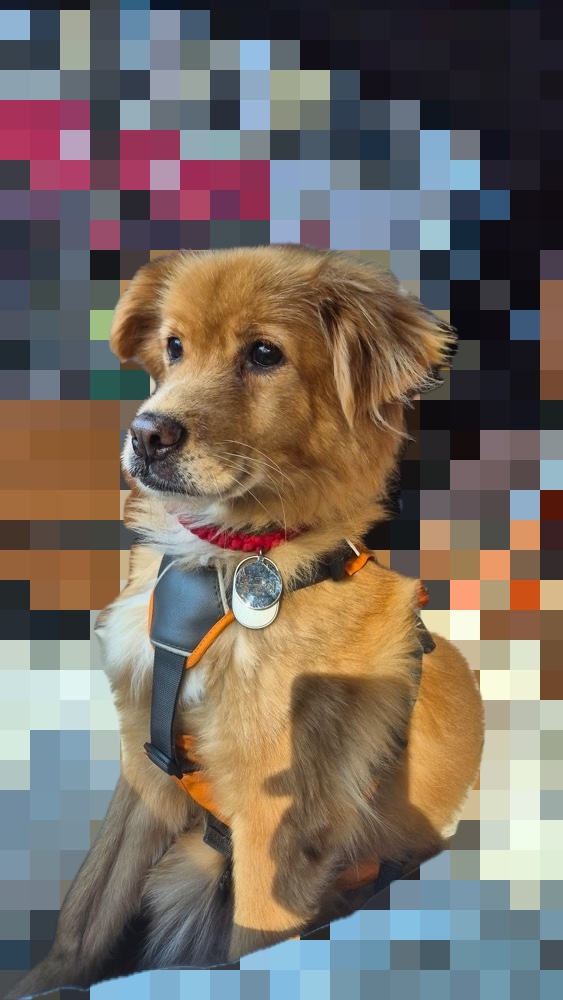
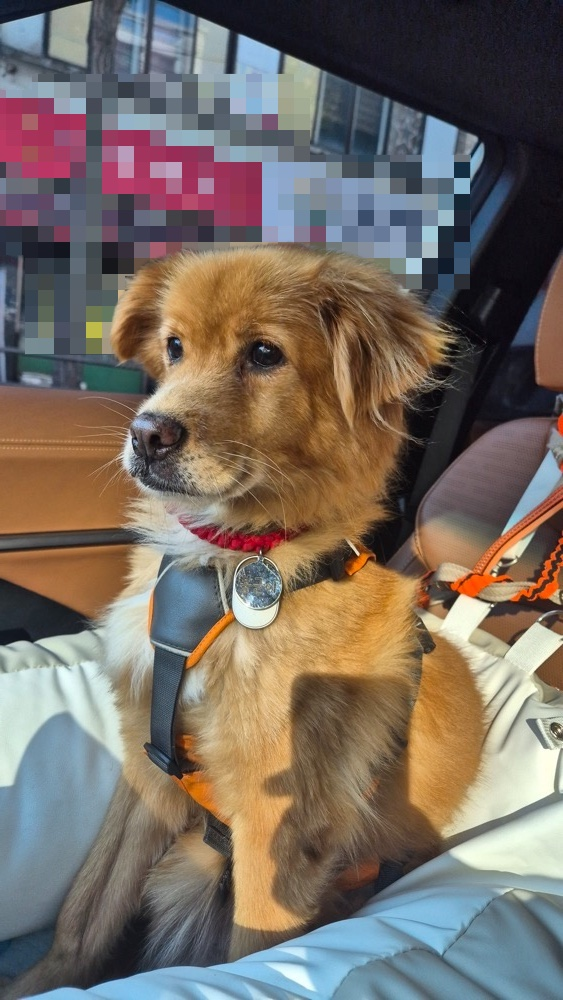
차 안 사진 2장: 배경 전체 대신 간판만 모자이크

diff --git a/index.html b/index.html
@@ -492,7 +492,7 @@ const TYPES = {
   w:{name:"산책 메이트형", img:"img/lic-walk.jpg", pos:"center 20%", alt:"산책길 계단에서 정면을 바라보는 봉군이",
      desc:"봉군이의 공식 산책 메이트로 임명되셨습니다. 봉군이 덕분에 임보자는 한 달 연속 걸음 수 상위 2%를 찍었어요. 운동화는 넉넉히 준비해 주세요.",
      fact:"산책 만렙이지만 인적 드문 한적한 길을 좋아해요. 봉군이는 쫄보거든요..."},
-  n:{name:"동네 마실 단짝형", img:"img/lic-town.jpg", pos:"center 25%", alt:"차 안에서 하네스를 하고 창밖을 보는 봉군이 (배경은 모자이크)",
+  n:{name:"동네 마실 단짝형", img:"img/lic-town.jpg", pos:"center 25%", alt:"차 안에서 하네스를 하고 창밖을 보는 봉군이",
      desc:"봉군이의 마실 단짝으로 선정되셨습니다. 봉군이는 차도 얌전히 잘 타고 동네 분들께 인사도 잘 해요. 조수석은 아마 봉군이 자리가 될 거예요.",
      fact:"차를 잘 타요"},
   s:{name:"소파 동지형", img:"img/lic-sofa.jpg", pos:"center 50%", alt:"베개에 얼굴을 묻고 쉬는 봉군이",
